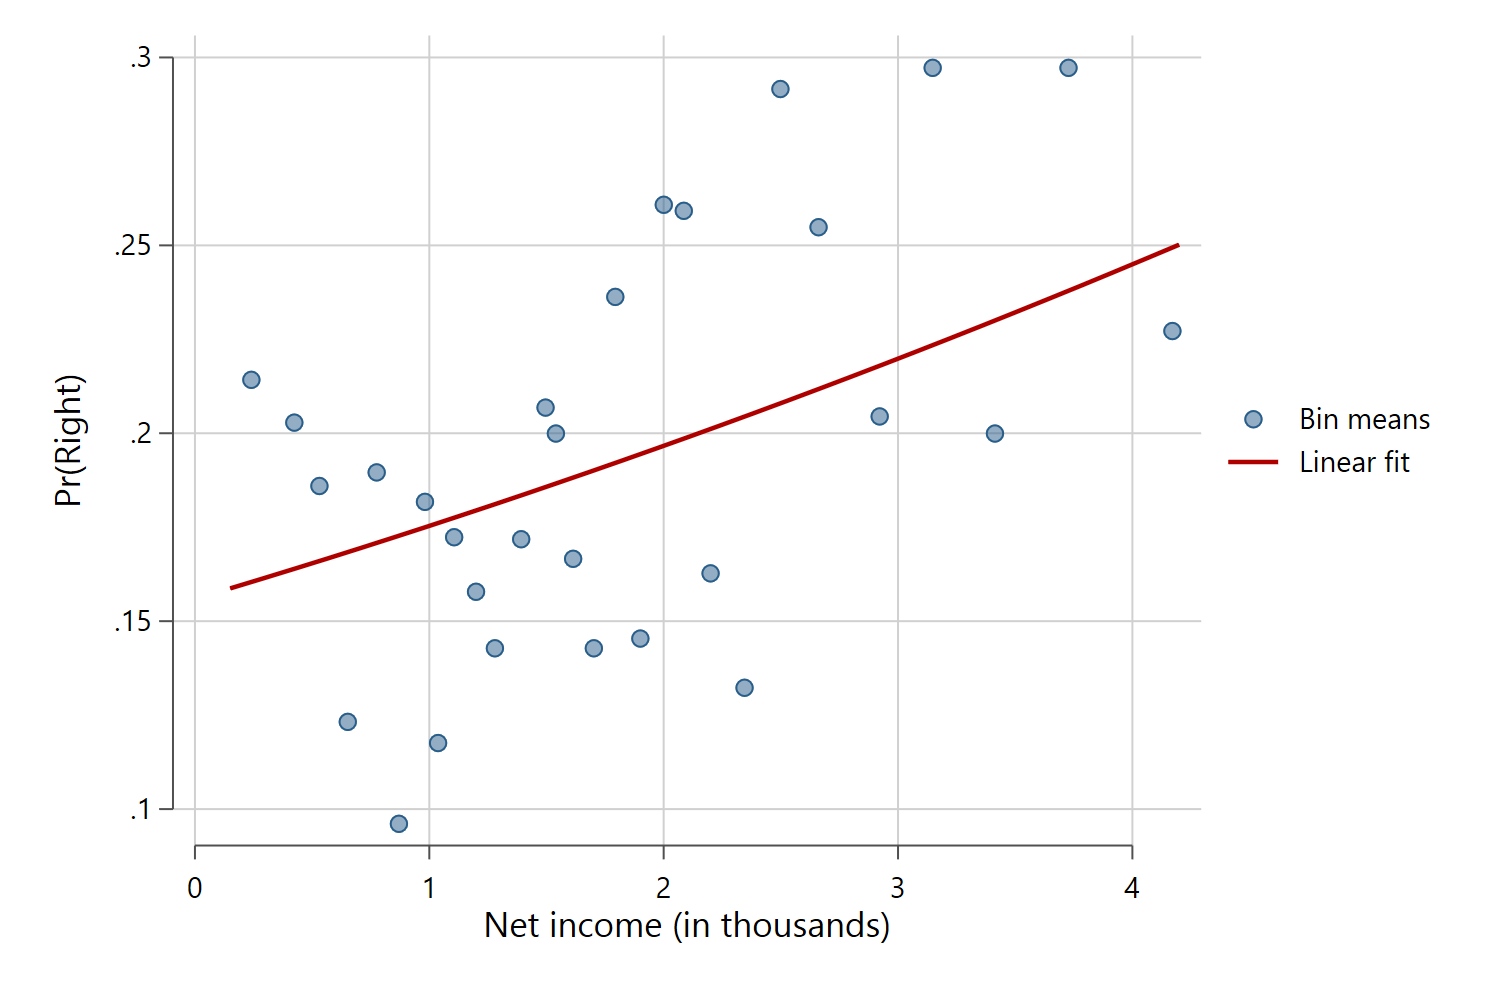
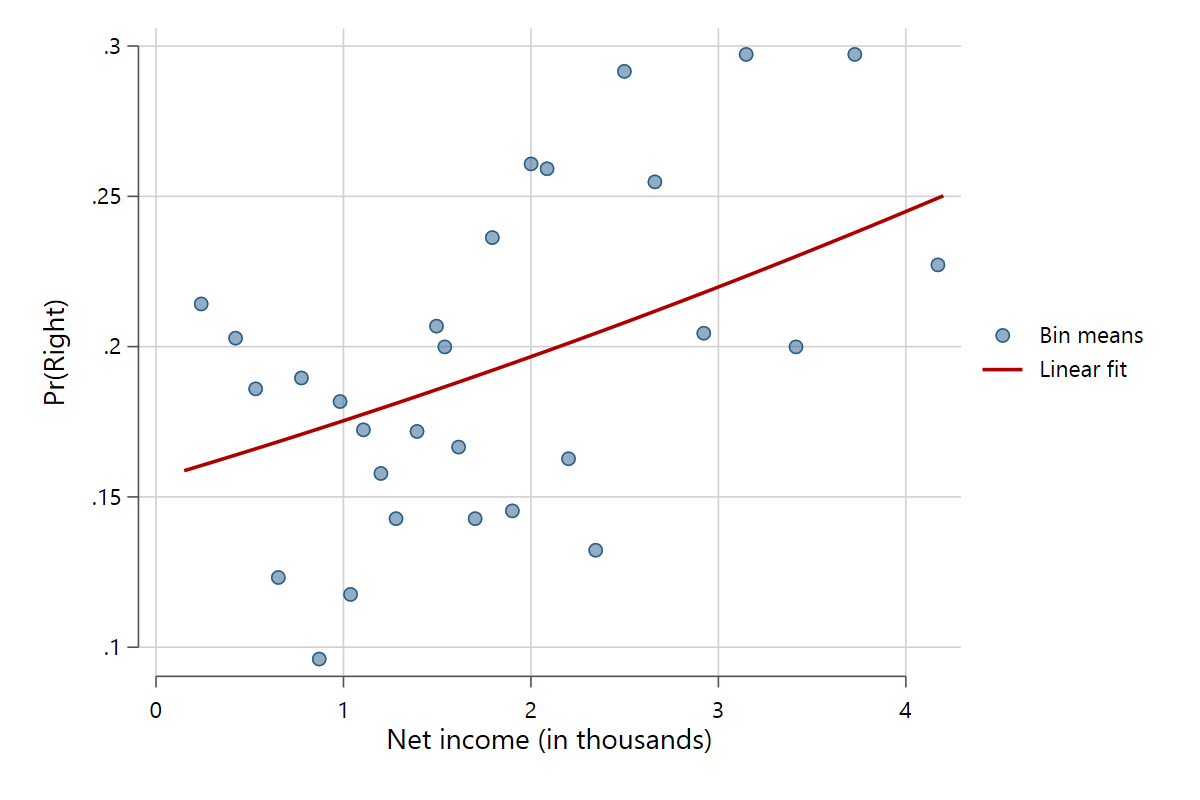
Add files via upload

diff --git a/README.md b/README.md
@@ -1,6 +1,6 @@
 # SCATTERFIT v1.6
 
-Scatterfit includes two commands for Stata that produce a wide range of scatter plots with overlaid fit lines. `scatterfit` visualizes the relationship between two variables. `slopefit` is for interaction models and visualizes the relationship between x and y conditional on another variable z.
+Scatterfit includes two commands for Stata that produce a wide range of scatter plots with overlaid fit lines. `scatterfit` visualizes the relationship between two variables and `slopefit` visualizes the relationship between x and y conditional on another variable z.
 
 To install the package, execute the following command in Stata
 
@@ -8,14 +8,14 @@ To install the package, execute the following command in Stata
 net install scatterfit, from(https://raw.githubusercontent.com/leojahrens/scatterfit/master) replace
 ```
 
-Once installed, please see `help scatterfit` and `help slopefit` for syntax and the whole range of options.
+Once installed, please see `help scatterfit` and `help slopefit` for the syntax and the whole range of options.
 
 There are two tutorials below that showcase the possibilities of the two commands. 
 
 # Creating plots with scatterfit
 ## Basics
 
-Scatterfit uses `graph twoway` to plot (1) scatter points, (2) fit lines, and optionally (3) confidence intervals. The standard syntax is `scatterfit y x [,options]`. In its simplest form, it is essentially a `graph twoway (scatter y x) (lfit y x)` command, although much better looking by default. Let's see it in action, using data from the German European Social Survey sample from 2018-19.
+Scatterfit plots (1) scatter points, (2) fit lines, and optionally (3) confidence intervals. The standard syntax is `scatterfit y x [,options]`. In its simplest form, it is essentially a `graph twoway (scatter y x) (lfit y x)` command, although much better looking by default. Let's see it in action using data from the German European Social Survey sample from 2018-19.
 
 ```
 scatterfit pinc_net age
@@ -35,13 +35,11 @@ The advantages of binned scatter plots should become apparent. You can get a muc
 
 ```
 scatterfit redistr pinc_net
-```
-```
 scatterfit redistr pinc_net, binned
 ```
-<img src="./examples/gr3.png" height="300"><img src="./examples/gr4.png" height="300">
+<img src="./examples/gr3.png" height="200"><img src="./examples/gr4.png" height="200">
 
-By default, the x variable is binned according to quantile cutoff-points so that the data are categorized into (nearly) 20 equally sized groups. Using the `nquantiles()` option changes the number of equally sized groups. 
+By default, the x variable is binned according to quantile cutoff-points so that the data are categorized into 30 (nearly) equally sized groups. Using the `nquantiles()` option changes the number of equally sized bins. 
 
 ```
 scatterfit redistr pinc_net, binned nquantiles(50)
@@ -69,29 +67,29 @@ scatterfit pinc_net age, binned discrete
 ```
 <img src="./examples/gr8.png" height="300">
 
-The last option is to use `binvar()` to define a variable that already contains all the bins.
+The last option is to use `binvar()` to use a variable that already defines all the bins.
 
 ## Binary dependent variables
 
-The command also works with binary dependent variables. It will automatically detect if the y variable only has two distinct values (after accounting for sample reductions via listwise deletion or if/in). No matter the underlying scale, scatterfit will transform the variable into a dummy where the original value with the higher scale point gets the "1" coding. Of course, scatter plots make little sense for binary dependent variables because all points are bundled on 0 and 1. But, you guessed it, binned scatter plots work just fine. The points and fit line show the proportion of respondents in the "1" rather than the "0" category.
+The command also works with binary dependent variables. It will automatically detect if the y variable only has two distinct values (after accounting for sample reductions via listwise deletion and if/in). No matter the underlying scale, scatterfit will transform the variable into a dummy where the original value with the higher scale point gets the "1" coding. Of course, scatter plots make little sense for binary dependent variables because all points are bundled on 0 and 1. But, you guessed it, binned scatter plots work just fine. The points and fit line show the proportion of respondents in the "1" rather than the "0" category.
 
 ```
 scatterfit right pinc_net, binned
 ```
 <img src="./examples/gr9.png" height="300">
 
-The fit line in the binary DV case is derived from linear predictions from a logit model that is calculated internally.
+The fit line in the binary DV case is derived from linear predictions based on a logit model that is calculated internally.
 
 ## Fit types
 
-The command supports several fit lines, manipulated via the `fit()` option. The standard setting is `fit(lfit)` for a linear fit with no confidence intervals. Other possible settings are `fit(lfitci)` to include confidence intervals, `fit(qfit)` or `fit(qfitci)` for quadratic fits, `fit(poly)` or `fit(polyci)` for local polynomial fits, and `fit(lowess)` for a lowess smoother. To control how fine-grained the smoothing is for local polynomials and lowess, use the `bwidth()` option. Here are some examples.
+The command supports several fit lines, manipulated via the `fit()` option. The standard setting is `fit(lfit)` for a linear fit with no confidence intervals. Other possible settings are `fit(lfitci)` to include confidence intervals, `fit(qfit)` or `fit(qfitci)` for quadratic fits, `fit(poly)` or `fit(polyci)` for local polynomial fits, and `fit(lowess)` for a lowess smoother. Use the `bwidth()` option to control how fine-grained the smoothing is for local polynomial and lowess fits. Here are some examples.
 
-<img src="./examples/gr10.png" height="300"><img src="./examples/gr11.png" height="300">
-<img src="./examples/gr12.png" height="300"><img src="./examples/gr13.png" height="300">
+<img src="./examples/gr10.png" height="200"><img src="./examples/gr11.png" height="200">
+<img src="./examples/gr12.png" height="200"><img src="./examples/gr13.png" height="200">
 
 ## Multiple plots along a by-dimension
 
-The values of y can be plotted separately for values across a by-dimension. Here is the development of income by age separately for men and women.
+The relationship between x and y can be broken down so that separate scatter points and fits are plotted for each value of the variable defined in `by()`. Here is the relationship between age and income with separate plots for men and women.
 ```
 scatterfit pinc_net age, binned fit(lfitci) by(gender)
 ```
@@ -105,16 +103,18 @@ scatterfit pinc_net age, binned by(gender) mlabel(genderlab)
 
 ## Control variables
 
-Scatterfit makes it possible to plot scatterplots with fit after accounting for control variables. If at all, researchers mostly use fitted scatterplots as a step preliminary to the "real" data analysis. The results are treated as descriptive, mostly because scatterplots appear insufficient for multivariate analyses. However, this is not the case. The data can be pre-treated before plotting them so that they only show the residual covariation between x and y after accounting for control variables. This is achieved by first regressing the x and y variables on the control variables and then using the residuals for the plots. If binned scatterplots are involved, this becomes slightly more complicated; see "Cattaneo et al. 2022 - On Binscatter". Scatterfit uses the simple residualization method for all plots without bins and the Cattaneo et al. method for all binned scatterplots.
+Scatterfit makes it possible to plot fitted scatterplots after accounting for control variables. If at all, researchers mostly use fitted scatterplots as a step preliminary to the "real" data analysis. The results are treated as descriptive, mostly because scatterplots are bivariate and, in their simple form, do not consider covariates. 
 
-The `controls()` option is used to control linearly for continuous variables (no factor-notation such as i.x allowed!), and the `fcontrols()` option is used for categorical / factorized variables. So, let's see it in action. 
+Scatterplot can pre-treat the data so that the plots only show the residual covariation between x and y after accounting for control variables. This is achieved by first regressing the x and y variables on the control variables and then using the residuals for the plots. If binned scatterplots are involved, this becomes slightly more complicated; see "Cattaneo et al. 2022 - On Binscatter". Scatterfit uses the simple residualization method for all plots without bins and the Cattaneo et al. method for all binned scatterplots.
+
+The `controls()` option is used to control linearly for continuous variables (no factor-notation such as i.x allowed!), and the `fcontrols()` option is used for categorical / factorized variables. Let's see it in action!
 
 ```
 scatterfit pinc_net age, binned controls(eduyrs) fcontrols(educ emp)
 ```
 <img src="./examples/gr16.png" height="300">
 
-You will see that, even though the variables are residualized, both x and y appear to be on their original scale. This is because scatterfit adds the means of the variables back onto the variables after residualization so that the variables stay on a familiar scale. What you see is the residual variation reletative to the mean. If you are unhappy with this behavior, use the `standardize` option to z-standardize both x and y in the plot.
+You will see that, even though the variables are residualized, both x and y appear to be on their original scale. This is because scatterfit adds the means of the variables back after residualization so that the variables stay on a familiar scale. That is, what you see is the residual variation relative to the mean. If you are unhappy with this behavior, use the `standardize` option to z-standardize both x and y in the plot.
 
 ## Regression parameters
 
@@ -128,20 +128,20 @@ The program tries to find a good position for the parameters, but this is not al
 
 ## Interaction models
 
-If `by()` is specified, the usual behavior of scatterfit is to stratify the sample and plot the relationship between x and y separately for each by-level. Using the `bymethod(interact)` option rather specifies that the results are obtained from an interaction regression model where x is interacted with the by-factor. When no control variables are specified, this leads to identical results, while the results may vary somewhat in the presence of controls.
+If `by()` is specified, the usual behavior of scatterfit is to stratify the sample and plot the relationship between x and y separately for each by-level. Using the `bymethod(interact)` option specifies that the results are rather obtained from an interaction regression model where x is interacted with each by-factor. When no control variables are specified, this leads to identical results, while the results may vary somewhat in the presence of controls.
 
 The interesting part is that it now becomes possible to plot regression parameters for the interaction(s). Just add the argument 'int' to the `regparameters()` option to receive the specified parameters for the interaction terms as well. 
 
 ```
-scatterfit redistr pinc_net, binned by(labf) bymethod(interact) regparameters(coef pval sig int) parpos(2.9 2)
+scatterfit redistr pinc_net, binned by(labf) bymethod(interact) regparameters(coef pval sig int)
 ```
 <img src="./examples/gr18.png" height="300">
 
-In this case, for example, it becomes evident that those who are part of the labor force have a significantly stronger slope coefficient of income on support for redistribution.
+In this example, it becomes evident that those who are part of the labor force have a significantly stronger slope coefficient of income on support for redistribution.
 
 ## Changing the overall look
 
-While scatterfit comes with a predefined look that differs considerably from the gory Stata standard graphs, the user may prefer a different look. The `plotscheme()` option changes the overall look. Put a Stata native or user-written scheme in the brackets to use it. And `colorscheme()` changes the colors. Either put a defined color palette here, such as s2color or tableau, or define your own colors using a list of hex colors (for example, `colorscheme(#E6007E #009FE3 #312783)`). It is advised that you also change the color palette when you change the overall plot scheme.
+While scatterfit comes with a predefined look that differs considerably from the gory Stata standard, the user may prefer a different look. The `plotscheme()` can be used to define an alternative plot scheme. You can use a Stata-native or user-written scheme here. And `colorscheme()` changes the color palette. Either put a pre-defined color palette such as s2color or tableau here, or define your own colors using a list of hex colors (for example, `colorscheme(#E6007E #009FE3 #312783)`). It is advised that you also change the color palette when you change the overall plot scheme.
 
 ```
 scatterfit pinc_net age, binned plotscheme(white_tableau) colorscheme(tableau)
@@ -153,6 +153,8 @@ scatterfit pinc_net age, binned plotscheme(white_tableau) colorscheme(tableau)
 
 Slopefit visualizes the relationship between x and y conditional on a continuous variable z. It also creates scatter plots with overlaid fit lines, but in a different way. Both the scatter points and the fit line show the slope (i.e. effect) of x at different values of z. The fit line is derived from a simple interaction model that assumes that the effect of x changes linearly with z. In contrast, the scatter points show effects of x within user-defined bins of z (say, the effect of x at the first decile of z, etc). These individual slopes are derived from an interaction regression model that uses a factorized version of z to get separate slope coefficients for different subsets of z.
 
+The following examples will acquaint you with the basics, but it will be much more brief than the tutorial for scatterfit because the two commands share a lot of functionalities. For example, changing the overall look of the figure works identically in the two commands.
+
 # Basics
 
 There are several methods to create the bins of z. As with scatterfit, the standard setting is to categorize z into equally sized bins based on quantile cutoff points. 
@@ -162,7 +164,7 @@ slopefit pinc_net gender age, method(quantiles) nquantiles(20)
 ```
 <img src="./examples/gr20.png" height="300">
 
-In this example, the fit line shows the results from the continuous interaction model, and the lowest scatter marker shows the effect of x in among those within the bottom 5% of the distribution of z. 
+In this example, the fit line shows the results from the continuous interaction model, and the lowest scatter marker shows the effect of x among those within the bottom 5% of the z distribution. 
 
 Similar to scatterfit, the bins can also be created by sorting z into equally spaced bins.
 
@@ -172,7 +174,7 @@ slopefit pinc_net gender age, method(unibin) nunibin(20)
 ```
 <img src="./examples/gr21.png" height="300">
 
-Or by treating z as discrete and using every single discrete value.
+Or by treating z as discrete and using every single distinct value.
 
 ```
 slopefit redistr pinc_net rile, method(discrete)
@@ -190,14 +192,14 @@ The previous example also shows the `mlabel()` option, which replaces the usual 
 
 ## Confidence intervals and fit lines
 
-The `fit()` option governs options how the main fit line, derived from the linear interaction of x and z, is plotted. You may use lfit, lfitci, qfit, and qfitci. We'll use lfitci here to add confidence intervals to our plot from the previous example.
+The `fit()` option governs options how the main fit line, derived from the linear interaction of x and z, is plotted. You may use 'lfit', 'lfitci', 'qfit', and 'qfitci'. We'll use lfitci here to add confidence intervals to the plot.
 
 ```
 slopefit redistr pinc_net rile, method(discrete) fit(lfitci)
 ```
 <img src="./examples/gr24.png" height="300">
 
-It is also possible to plot the confidence intervals for the individual slopes with ``, in this case at all distinct values of peoples' left-right self-placement.
+It is also possible to plot the confidence intervals of the individual slopes with `indslopesci`, in this case at all distinct values of peoples' left-right self-placement.
 
 ```
 slopefit redistr pinc_net rile, method(discrete) fit(lfitci) indslopesci
